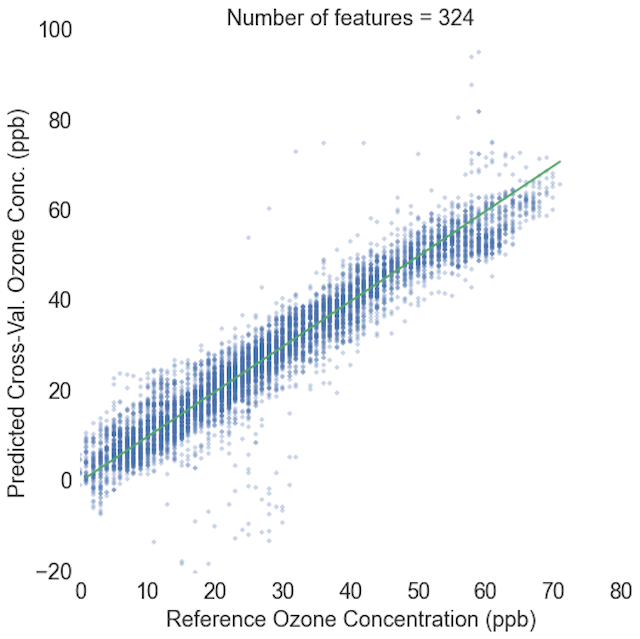
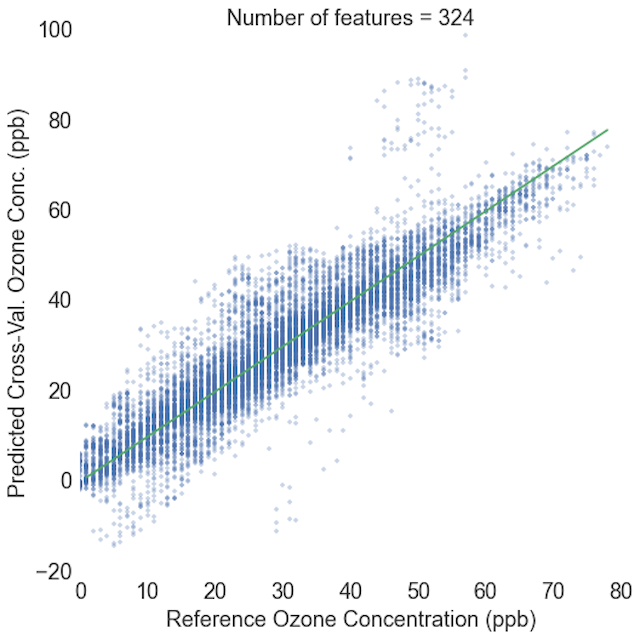
adding to data

diff --git a/clean_blog_page/data.html b/clean_blog_page/data.html
@@ -119,20 +119,22 @@
                         </p>
                         <img src="img/data3.png" class="img-responsive center-block space max_width" alt="">
                         <p>
-                            The plot above is a comparison between the ozone values predicted by a linear regression model, using the data from the low-cost sensors, and the ozone values measured by a reference instrument. The root-mean-square error (RMSE) for this regression is 5 ppb, which means that there is a 5 ppb difference between the reference ozone concentration measurements and the model predictions. This RMSE is very good, especially when you consider the fact that we're comparing the performance of a $10 sensor to a $10,000+ reference instrument. However, when we look at this plot, we can see that at high ozone values, the model always underpredicts ozone (15% underprediction when concentration > 60 ppb and 20% underprediction when concentration > 70 ppb). Since exposure to high ozone concentrations can negatively impact health, researchers are most concerned about these high ozone values. Without plotting this data, one could conclude that this model is a great fit, but this plot instantly makes it clear that it does not work well at high values.
+                            The plot above is a comparison between the ozone values predicted by a linear regression model, using the data from the low-cost sensors, and the ozone values measured by a reference instrument. The root-mean-square error (RMSE) for this regression is 6&thinsp;ppb, which means that there is a 6&thinsp;ppb difference between the reference ozone concentration measurements and the model predictions. This RMSE is very good, especially when you consider the fact that we're comparing the performance of a $10 sensor to a $10,000+ reference instrument. However, when we look at this plot, we can see that at high ozone values, the model always underpredicts ozone (15&#2000;% underprediction when concentration > 60&thinsp;ppb and 22&thinsp;% underprediction when concentration > 70&thinsp;ppb). Since exposure to high ozone concentrations can negatively impact health, researchers are most concerned about these high ozone values. Without plotting this data, one could conclude that this model is a great fit, but this plot instantly makes it clear that it does not work well at high values.
                         </p>
                         <img src="img/data4.png" class="img-responsive center-block space max_width" alt=""> 
                         <p>
-                            To reduce the model's underprediction at high values, I transformed the base features (ozone sensor signal, temperature and humidity) to create 321 new features. The plot above shows a linear regression with all 324 features. Adding the new features to the regression reduced the magnitude of the underprediction from at high values from 15% to 6% while maintaining a RMSE of 5. 
+                            To reduce the model's underprediction at high values, I transformed the base features (ozone sensor signal, temperature and humidity) to create 321 new features. The plot above shows a linear regression with all 324 features. Adding the new features to the regression reduced the magnitude of the underprediction from at high values from 7% to 5%. As expected when adding a large number of features, the variance increased, and the RMSE increased from 6&thinsp;ppb to 7&thinsp;ppb. 
                         </p>
                        
                         <img src="img/data1.png" class="img-responsive center-block space max_width" alt=""> 
                         <p>
-                        It is always best to use the simplest model possible, so the next thing I did was select the most important features in the model. I used forward selection, and wrote an algorithm to choose each feature based on minimizing a custom error function. The custom function is a sum of the RMSE at high and low ozone values, with errors at high values weighted ten times as much as those at low values. The plot above shows how the custom error and RMSE change as each next-best feature is added to the regression. Based on the plot above, I would probably select between 9 and 15 features for my model, but I also looked at learning curves to evaluate when adding features starts to lead to overfitting. 
+                        It is always best to use the simplest model possible, and reducing the number of features in a model is one way to reduce variance, so the next thing I did was select the most important features. I used forward selection, and wrote an algorithm to choose each feature based on minimizing a custom error function. The custom function is a sum of the RMSE at high and low ozone values, with errors at high values weighted ten times as much as those at low values. The plot above shows how the custom error and RMSE change as each next-best feature is added to the regression. Based on the plot above, I would probably select between 7 and 11 features for my model, but I also looked at learning curves to evaluate when adding features starts to lead to overfitting. 
                         </p>
 
                         <img src="img/data2.png" class="img-responsive center-block space max_width" alt=""> 
-
+                    <p>
+                        Learning curves visualize how error for a cross-validation set and training set change as the number of training samples increases. When a fit has high bias, the training and cross-validation error converge at high error values. When a fit has high variance, as the number of samples increases, the gap between the training error and cross-validation error remains large. 
+                    </p>
                     </div>
 
 
